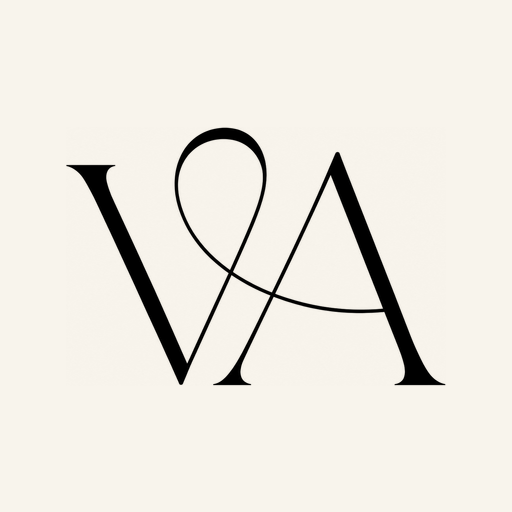
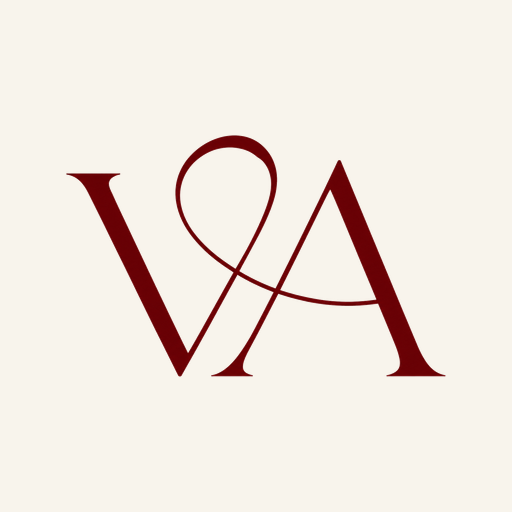
Fix crest color-flattening bug, rename asset, and misc content tweaks
- Redo the crest transparency conversion to preserve each pixel's actual
  color instead of forcing one sampled reference tone (the previous pass
  picked an outlier near-black pixel and flattened the whole glyph to it,
  making a maroon crest render as black)
- Rename crest.png -> crest-2.png so browsers/Next's image cache can't
  serve the old broken version under the same URL
- Regenerate app/icon.png from the corrected crest
- Hero: swap name order to "Varnit & Akshita" for this one spot only,
  independent of the shared config order used everywhere else
- Remove "Your celebration begins here", keep "Akshita & Varnit await
  you." styled with the removed line's font
- Sangeet description copy tweak

Changed region(s): [[0.3125, 0.25, 0.875, 0.7812], [0.125, 0.3125, 0.4062, 0.75]]

diff --git a/components/opening/sketch-reveal.tsx b/components/opening/sketch-reveal.tsx
@@ -19,7 +19,7 @@ const MOBILE_SKETCH = "/images/splashScreen/opt/sketch-hero.webp";
 const MOBILE_PHOTO = "/images/splashScreen/opt/actual.webp";
 const DESKTOP_SKETCH = "/images/splashScreen/opt/desktop-sketch.webp";
 const DESKTOP_PHOTO = "/images/splashScreen/opt/desktop-photo.webp";
-const CREST_SRC = "/images/rsvp/crest.png";
+const CREST_SRC = "/images/rsvp/crest-2.png";
 
 /**
  * "Desktop" = a real laptop/computer: wide viewport AND a fine, hovering pointer
@@ -269,7 +269,7 @@ export function SketchReveal({ guestName, onComplete }: SketchRevealProps) {
 
   const header = (
     <>
-      <Image alt="" className="mb-0.5 h-auto w-14 opacity-90 sm:w-16" height={801} src={CREST_SRC} width={1173} />
+      <Image alt="" className="mb-0.5 h-auto w-14 opacity-90 sm:w-16" height={788} src={CREST_SRC} width={1238} />
       <p className="font-sans text-caption font-medium uppercase tracking-[0.3em] text-charcoal/60">
         Welcome{greeted ? "," : ""}
       </p>

diff --git a/components/sections/travel-journey.tsx b/components/sections/travel-journey.tsx
@@ -210,10 +210,10 @@ export function TravelJourney({ card }: { card: RoutesCard }) {
               <Image
                 alt="Akshita & Varnit monogram"
                 className="h-auto w-9"
-                height={801}
+                height={788}
                 src={invitationDetails.monogramImageSrc}
                 unoptimized
-                width={1173}
+                width={1238}
               />
             ) : (
               <Monogram className="text-[1.05rem]" value={invitationDetails.monogram} />
@@ -229,9 +229,6 @@ export function TravelJourney({ card }: { card: RoutesCard }) {
           custom={4.6}
           variants={fadeUp}
         >
-          {journey.arrivalTitle}
-        </motion.p>
-        <motion.p className="mt-1.5 font-display text-body-large italic text-antique-gold" custom={5.2} variants={fadeUp}>
           {journey.arrivalSubtitle}
         </motion.p>
 

diff --git a/components/sections/hero-section.tsx b/components/sections/hero-section.tsx
@@ -95,9 +95,9 @@ export function HeroSection({ details, revealed }: HeroSectionProps) {
           className="mt-[3.6vh] whitespace-nowrap font-display font-medium leading-none tracking-[-0.01em] text-warm-white [text-shadow:0_2px_22px_rgb(20_14_8/50%)]"
           variants={item}
         >
-          <span className="text-[2.2rem] sm:text-[3.25rem] md:text-[4rem]">{details.firstName}</span>
-          <span className="mx-2.5 align-baseline text-[0.62em] italic text-warm-white/85 sm:mx-3.5">&amp;</span>
           <span className="text-[2.2rem] sm:text-[3.25rem] md:text-[4rem]">{details.partnerName}</span>
+          <span className="mx-2.5 align-baseline text-[0.62em] italic text-warm-white/85 sm:mx-3.5">&amp;</span>
+          <span className="text-[2.2rem] sm:text-[3.25rem] md:text-[4rem]">{details.firstName}</span>
         </motion.h1>
 
         <motion.p

diff --git a/lib/config/travel.ts b/lib/config/travel.ts
@@ -41,7 +41,6 @@ export interface Journey {
   origin: string;
   hub: RouteEndpoint;
   destination: RouteEndpoint;
-  arrivalTitle: string;
   arrivalSubtitle: string;
 }
 
@@ -126,7 +125,6 @@ export const travelContent: TravelContent = {
         origin: "International Flight",
         hub: { city: "Delhi", code: "DEL" },
         destination: { city: "Lucknow", code: "LKO" },
-        arrivalTitle: "Your celebration begins here.",
         arrivalSubtitle: "Akshita & Varnit await you.",
       },
       note: "Most international guests arrive via Delhi before taking a short domestic flight to Lucknow. Depending on your departure city, direct international connections to Lucknow may also be available.",

diff --git a/components/opening/invitation-face.tsx b/components/opening/invitation-face.tsx
@@ -72,10 +72,10 @@ export function InvitationFace({ details, variant = "panel", sealSlot }: Invitat
               <Image
                 alt={`${details.firstName} & ${details.partnerName} monogram`}
                 className="h-auto w-[clamp(64px,12dvh,116px)]"
-                height={801}
+                height={788}
                 src={details.monogramImageSrc}
                 unoptimized
-                width={1173}
+                width={1238}
               />
             ) : (
               <div className="flex flex-col items-center text-antique-gold">

diff --git a/lib/config/chapters.ts b/lib/config/chapters.ts
@@ -98,7 +98,7 @@ export const celebrations: CelebrationsContent = {
       time: "8:00 PM onwards",
       venue: "The Grand Banquet and Lawn",
       description:
-        "A lively pre-wedding celebration dedicated to music, dance & joy where both families come together to dance & celebrate the upcoming union.",
+        "A lively pre-wedding celebration dedicated to music, dance & joy where both families come together celebrate the upcoming union.",
       highlights: ["Dance performances", "Live music", "Cocktails"],
       art: "sangeet",
       accent: "rose",

diff --git a/components/opening/welcome-screen.tsx b/components/opening/welcome-screen.tsx
@@ -71,10 +71,10 @@ export function WelcomeScreen({ details, onBegin, guestName }: WelcomeScreenProp
                 <Image
                   alt={`${details.firstName} & ${details.partnerName} monogram`}
                   className="h-auto w-56 sm:w-72 md:w-80"
-                  height={801}
+                  height={788}
                   src={details.monogramImageSrc}
                   unoptimized
-                  width={1173}
+                  width={1238}
                 />
               </motion.div>
             </motion.div>

diff --git a/components/chapters/celebrations-chapter.tsx b/components/chapters/celebrations-chapter.tsx
@@ -368,10 +368,10 @@ export function CelebrationsChapter() {
               <Image
                 alt="Akshita & Varnit monogram"
                 className="h-auto w-9"
-                height={801}
+                height={788}
                 src={invitationDetails.monogramImageSrc}
                 unoptimized
-                width={1173}
+                width={1238}
               />
             ) : null}
           </motion.div>

diff --git a/components/chapters/rsvp-chapter.tsx b/components/chapters/rsvp-chapter.tsx
@@ -270,9 +270,9 @@ export function RsvpChapter() {
           <Image
             alt="Akshita and Varnit monogram"
             className="mt-1 h-auto w-24 sm:w-28"
-            height={801}
-            src="/images/rsvp/crest.png"
-            width={1173}
+            height={788}
+            src="/images/rsvp/crest-2.png"
+            width={1238}
           />
         </motion.div>
       </Container>

diff --git a/lib/config/invitation.ts b/lib/config/invitation.ts
@@ -60,7 +60,7 @@ export const invitationDetails: InvitationDetails = {
     focalPoint: "49% 46%",
   },
   sealImageSrc: "/images/wax-seal-open.png",
-  monogramImageSrc: "/images/rsvp/crest.png",
+  monogramImageSrc: "/images/rsvp/crest-2.png",
   heroKicker: "The Wedding Of",
   heroTagline: "You're cordially invited to celebrate the story of…",
   heroPortrait: {
